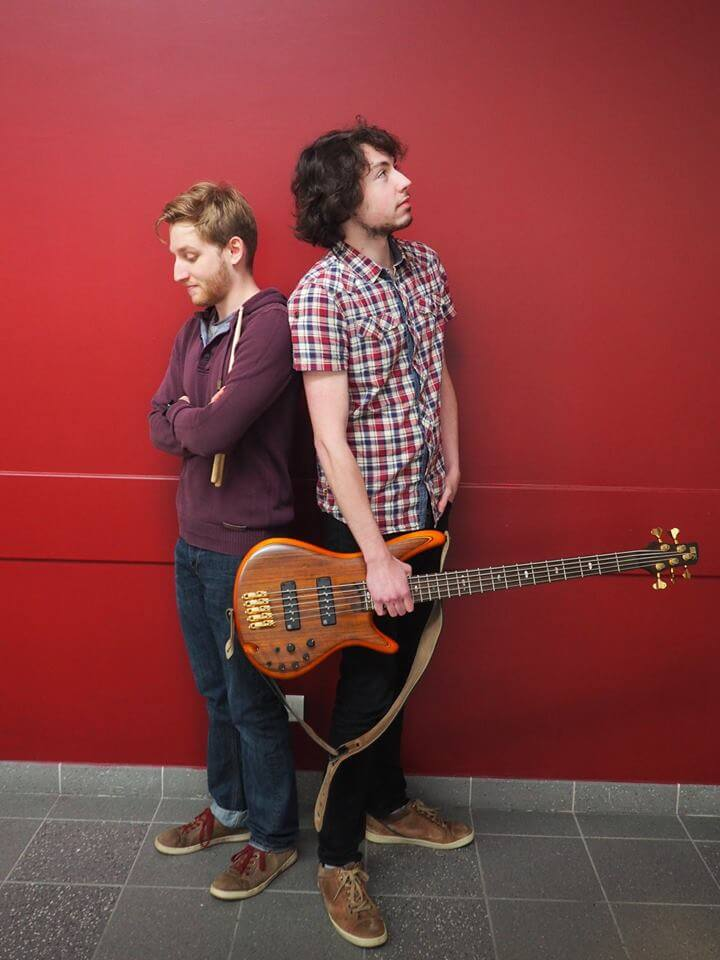
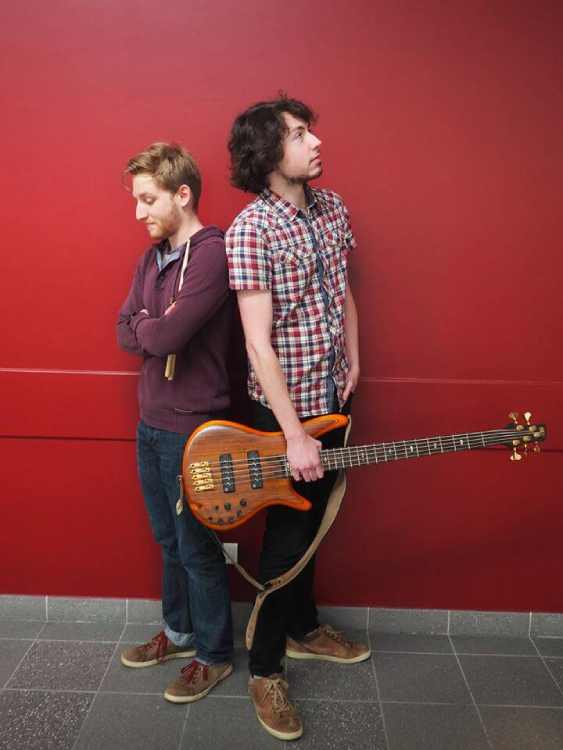
Optimisation
Réduction taille images + ajout compression

diff --git a/src/main.js b/src/main.js
@@ -7,16 +7,15 @@ import MaterialKit from "./plugins/material-kit";
 import GoogleMaps from "./plugins/googleMaps";
 
 import VueImg from "v-img";
-import Compression from "compression";
+var compression = require('compression');
 import Lightbox from 'vue-easy-lightbox';
 import VueYouTubeEmbed from 'vue-youtube-embed'
 
 
 Vue.config.productionTip = false;
-
+Vue.use(compression());
 Vue.use(MaterialKit);
 Vue.use(VueImg);
-Vue.use(Compression);
 Vue.use(VueYouTubeEmbed)
 Vue.use(Lightbox)
 Vue.use(GoogleMaps);

diff --git a/src/views/Artistes.vue b/src/views/Artistes.vue
@@ -147,7 +147,7 @@ export default {
       ],
       photosUnison: [
         { image: require("@/assets/img/faces/big-band.jpg") },
-        { image: require("@/assets/img/faces/gsn.png") },
+        { image: require("@/assets/img/faces/gsn.jpg") },
         { image: require("@/assets/img/faces/prol-utt.jpg") },
         { image: require("@/assets/img/faces/leszicos.jpg") },
         { image: require("@/assets/img/faces/redmachines.jpg") },
